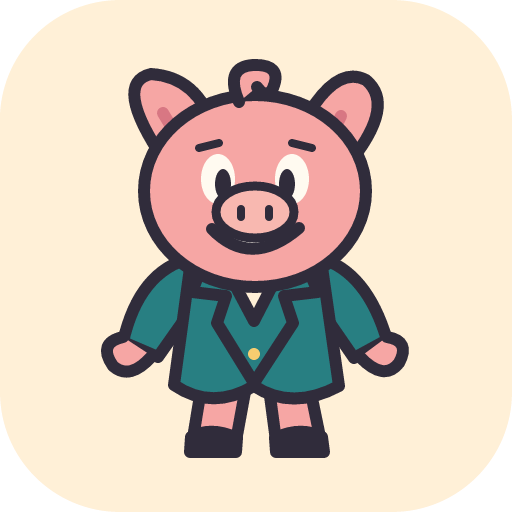
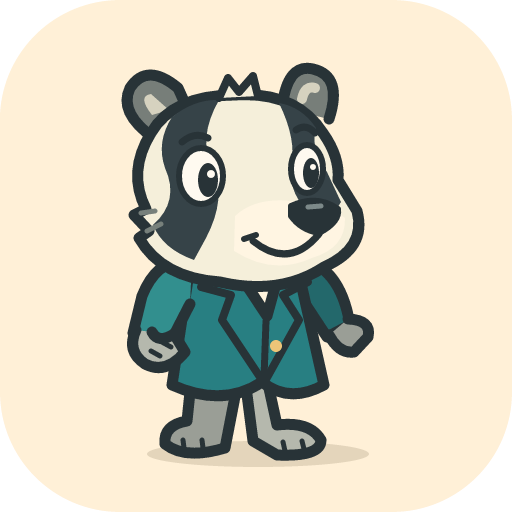
Replace pig mascot with original three-quarter-view badger

Changed region(s): [[0.1875, 0.0938, 0.8125, 0.9375]]

diff --git a/store/listing.md b/store/listing.md
@@ -5,7 +5,7 @@ Name: NoShorts
 Summary: Less scrolling, more subscriptions. Hide YouTube Shorts and make Home open Subscriptions.
 
 Description:
-NoShorts does two small things: hides Shorts and makes YouTube Home take you straight to your subscriptions. Direct Shorts links open in the regular video player. No settings to fiddle with. No analytics. No data collection. Just a little pig in a jacket helping you skip the endless scroll.
+NoShorts does two small things: hides Shorts and makes YouTube Home take you straight to your subscriptions. Direct Shorts links open in the regular video player. No settings to fiddle with. No analytics. No data collection. Just a little badger in a jacket helping you skip the endless scroll.
 
 Works on desktop YouTube. A YouTube sign-in is needed for subscriptions. Not affiliated with or endorsed by YouTube or Google.
 

diff --git a/README.md b/README.md
@@ -1,6 +1,6 @@
 # NoShorts
 
-<img src="assets/mascot.png" width="192" alt="A cheerful pig wearing a teal jacket and no shorts">
+<img src="assets/mascot.png" width="192" alt="A cheerful badger in three-quarter view wearing a teal jacket and no shorts">
 
 **Less scrolling. More subscriptions.**
 
